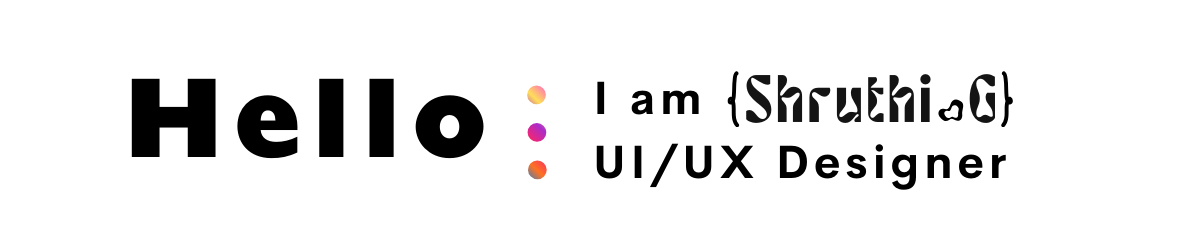
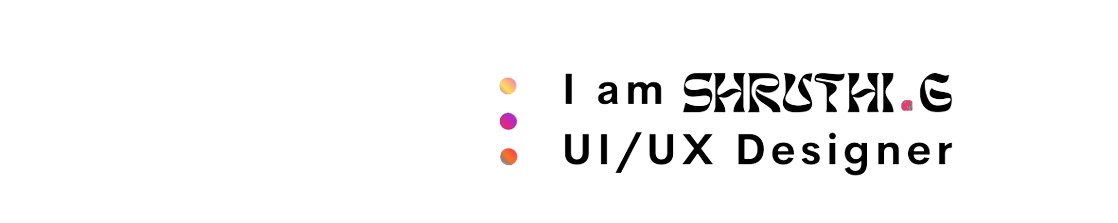
Updates

diff --git a/index.html b/index.html
@@ -11,7 +11,15 @@
 <!-- Header and Navigation bar -->
 
 <header>
-<img class="hero-photo" src="Images/hello-removebg-preview.png" alt="Hero photo;">
+<img class="hero-photo" src="Images/hello 2.png" alt="Hero photo;">
+<div class="large-tag hello"><h2 data-w-id="07bc4ad3-197f-8ff3-1309-e7a6371bea83" class="display-medium-alt homepage" style="opacity: 1;">Hello</h2></div>
+<div class="large-tag ciao"><h2 data-w-id="48d6e16b-a488-1184-f65f-0111c72e07ef" style="opacity: 0;" class="display-medium-alt homepage">Ciao</h2></div>
+<div class="large-tag bonjour"><h2 data-w-id="f8027e72-3f8b-070c-9396-ba10583c7b3e" style="opacity: 0;" class="display-medium-alt homepage">Bonjour</h2></div>
+<div class="large-tag hola"><h2 data-w-id="7822dded-859e-8c17-a46c-27feff258d29" style="opacity: 0;" class="display-medium-alt homepage">Hola</h2></div>
+<div class="large-tag namaste"><h2 data-w-id="2981704f-6469-bda1-1007-67fc88c9664c" style="opacity: 0;" class="display-medium-alt homepage">Namaste</h2></div></div>
+
+
+
 <div class="dashed-border">
 <div class="circle-1"></div>
 <div class="circle-2"></div>
@@ -21,8 +29,9 @@
 </div>
 </div>
 
+
 <div class="topnav-item-2">
-<a href="Images/Shruthi_Gurunathan_Resume.pdf"_blank">Resume</a>
+<a href="Images/Shruthi_Gurunathan_Resume.pdf" target="_blank">Resume</a>
 </div>
 
 <a href="https://www.iamshruthi.com/index.html">

diff --git a/CSS/homepage.css b/CSS/homepage.css
@@ -190,8 +190,59 @@ body {
   border-radius: 30px;
 }
 
+.large-tag.hello {
+  position: absolute;
+}
+
+.large-tag{
+  width: 10ch;
+  height: 5ch;
+  border: 2px solid black;
+  border-radius: 100px;
+  margin-left: 170px;
+  margin-top: -180px;
+  justify-content: center;
+  align-items: center;
+  padding: .5ch .75ch;
+  font-family:'Gill Sans', 'Gill Sans MT', 'Calibri', 'Trebuchet MS', sans-serif;
+  font-size: 5vw;
+  font-weight: 400;
+  line-height: 100%;
+  display: flex;
+}
+
+*{
+  box-sizing: border-box;
+}
+
+div{
+  unicode-bidi: isolate;
+}
 
 
+
+.large-tag.ciao {
+  display: flex;
+  position: absolute;
+}
+
+.large-tag.bonjour{
+  z-index: 3;
+  display: flex;
+  position: absolute;
+}
+
+.large-tag.hola{
+  z-index: 4;
+  display: flex;
+  position: absolute;
+}
+
+.large-tag.namaste{
+  z-index: 5;
+  display: flex;
+  position: relative;
+}
 
 .profile-image {
   border: solid thin #f8256b;
